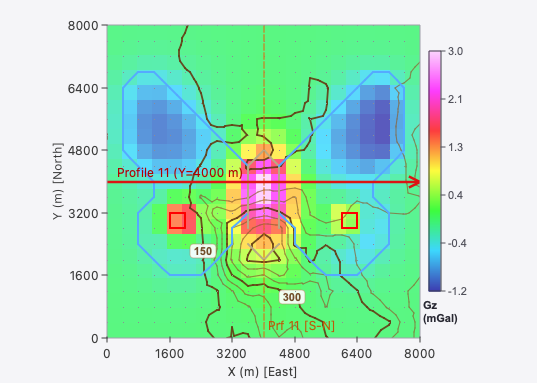
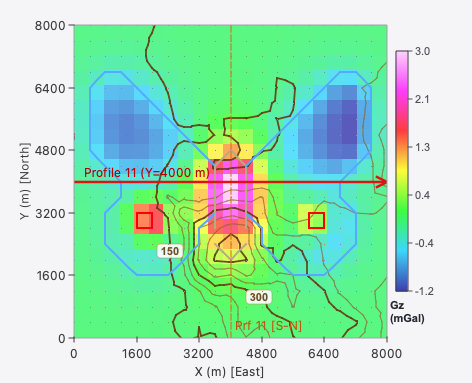
docs: update README and screenshots with modern 3D view and UI look

Changed region(s): [[0.0297, 0.0574, 0.9195, 1.0], [0.2669, 0.8903, 0.3559, 0.9478]]

diff --git a/tests/test_gui_document.cpp b/tests/test_gui_document.cpp
@@ -24,6 +24,15 @@ void saveTestScreenshot(const QPixmap &pix, const QString &filename) {
     std::error_code ec;
     std::filesystem::create_directories(dir, ec);
     pix.save(QString::fromStdString(dir + "/" + filename.toStdString()));
+
+    if (filename.startsWith("mod3d_")) {
+        const std::vector<std::string> candidateDirs = { "../../docs/images", "../docs/images" };
+        for (const auto &d : candidateDirs) {
+            if (std::filesystem::exists(d)) {
+                pix.save(QString::fromStdString(d + "/" + filename.toStdString()));
+            }
+        }
+    }
 }
 } // namespace
 

diff --git a/README.md b/README.md
@@ -7,7 +7,7 @@
 [![C++20](https://img.shields.io/badge/C%2B%2B-20-00599C?logo=c%2B%2B)](https://en.cppreference.com/w/cpp/20)
 [![Qt 6](https://img.shields.io/badge/Qt-6.5+-41CD52?logo=qt)](https://www.qt.io/)
 [![CMake](https://img.shields.io/badge/CMake-3.20+-064F8C?logo=cmake)](https://cmake.org/)
-[![Tests](https://img.shields.io/badge/Tests-146%20Passing-brightgreen.svg)]()
+[![Tests](https://img.shields.io/badge/Tests-152%20Passing-brightgreen.svg)]()
 [![Platform](https://img.shields.io/badge/Platform-macOS%20%7C%20Linux%20%7C%20Windows-lightgrey.svg)]()
 
 **High-Performance Interactive 2.5D & 3D Forward Modeling and Inversion of Potential Fields**
@@ -26,7 +26,7 @@ Powered by Dr. Vladimír Pohánka's exact analytical polyhedral integration engi
 
 <p align="center">
   <img src="docs/images/mod3d_main_workspace.png" alt="Mod3D Main Workspace" width="100%">
-  <em>Mod3D Multi-View Workspace: East-West and South-North geological cross-sections, 2D potential field map with topography contours, 3D turntable view, and Settings Inspector.</em>
+  <em>Mod3D Multi-View Workspace: Synchronized East-West and South-North cross-sections with live anomaly curves, 2D potential field heatmap with CONREC topography contours and body footprints, hardware-accelerated 3D turntable view with elevation-colored relief surface and active profile slice, and modern 4-tab Settings Inspector.</em>
 </p>
 
 ---
@@ -43,12 +43,13 @@ Powered by Dr. Vladimír Pohánka's exact analytical polyhedral integration engi
 - 🗺 **Comprehensive Multi-View Architecture**:
   - **Geological Profile View**: Synchronized East-West and South-North cross-sections, multi-body polygon editing, vertex dragging, body splitting, and real-time field profile fitting.
   - **Map View**: 2D potential field color raster heatmaps, station points, profile traverses, body footprints, and automatic CONREC surface relief/topography contours.
-  - **3D Perspective Turntable View**: Interactive 3D visualization of faceted polyhedral subsurface bodies.
-  - **Geological Body Editor & Settings Inspector**: SI-unit physical properties ($\text{kg/m}^3$ and $\text{SI}$ susceptibility), color picker, active toggles, and linear gradients.
+  - **3D Perspective Turntable View**: OpenGL 4.1 hardware-accelerated 3D rendering with LookAt camera, smooth turntable orbit & pan, faceted polyhedral subsurface bodies, active profile cut plane slice highlighting, 3D body raycast hit testing/selection, topographic relief surface & wireframe rendering with elevation colormapping, orientation compass sphere & coordinate tripod, and transparency controls.
+  - **Unified Settings Inspector**: 4-tab docked controls (**Display**, **Profiles**, **Bodies**, **Physics/Inversion**) with strict SI-unit physical properties ($\text{kg/m}^3$ and $\text{SI}$ susceptibility), color swatches, 3D transparency toggles, 3D linear density gradients ($\nabla\rho$), remanent magnetization, and automated inversion controls.
 - 🎯 **Automated Inversion**:
   - Built-in 1D least-squares automated density contrast inversion to match calculated anomalies to observed field surveys.
 - 🌐 **Modern C++20 & Qt 6 Design**:
   - Decoupled `mod3d_core` static library (zero GUI dependencies) and hardware-accelerated Qt 6 GUI.
+  - Dynamic responsive auto-resizing MDI layout that scales client subwindows smoothly.
   - Complete cross-platform compatibility across macOS (Apple Silicon & Intel), Linux, and Windows.
 
 ---
@@ -58,12 +59,12 @@ Powered by Dr. Vladimír Pohánka's exact analytical polyhedral integration engi
 | Interactive Geological Cross-Section | Topography & Field Map View |
 | :---: | :---: |
 | <img src="docs/images/mod3d_profile_cross_section.png" alt="Profile Cross-Section" width="460"> | <img src="docs/images/mod3d_map_view.png" alt="Map View with Contours" width="460"> |
-| *Real-time gravity anomaly fitting (blue calculated vs. red measured crosses with RMS misfit) above geological polyhedra and topography.* | *Potential field color heatmap with station grid points, profile traverses, geological body footprints, and topography relief contours.* |
+| *Real-time gravity anomaly fitting (blue calculated vs. red measured crosses with live RMS misfit) above geological polyhedra, profile topography, and cross-section cut indicator.* | *Potential field color heatmap with station grid points, profile traverses with directional indicators, geological body footprints, and automatic CONREC topography relief contours.* |
 
 | 3D Perspective Turntable View | Settings Inspector Body Editor |
 | :---: | :---: |
 | <img src="docs/images/mod3d_3d_turntable.png" alt="3D Turntable View" width="460"> | <img src="docs/images/mod3d_body_editor.png" alt="Settings Inspector Body Editor" width="460"> |
-| *Interactive 3D faceted polyhedral bodies with active profile cut plane, bounding box, and orientation tripod.* | *Settings Inspector: Strict SI physical units ($\text{kg/m}^3$ and $\text{SI}$), 3D linear density gradients ($\nabla\rho$), remanent magnetization, and automated inversion controls.* |
+| *Interactive 3D view: OpenGL 4.1 core shaders, colormapped topographic relief surface, polyhedral subsurface bodies, active profile cut plane slice, 3D orientation sphere, and coordinate tripod.* | *Settings Inspector: 4-tab docked controls (Display, Profiles, Bodies, Physics), strict SI physical units ($\text{kg/m}^3$ and $\text{SI}$), 3D linear density gradients ($\nabla\rho$), and real-time inversion.* |
 
 ---
 
@@ -109,7 +110,7 @@ Mod3D/
 ├── gui/                   # Modern Qt 6 desktop application (mod3d_gui)
 │   ├── include/mod3d_gui/ # Views: ProfileView, MapView, GL3DView, SettingsPane
 │   └── src/               # Rendering, interaction, and undo/redo controllers
-├── tests/                 # Comprehensive Google Test suite (126 tests)
+├── tests/                 # Comprehensive Google Test suite (152 tests)
 └── Examples/              # Authentic sample models (.m3d) & survey grids
 ```
 
@@ -178,15 +179,19 @@ ctest --test-dir build -C Release --output-on-failure
 
 ## Keyboard Shortcuts & Quick Reference
 
-| Shortcut | Action | Description |
+| Shortcut / Gesture | Action | Description |
 | :--- | :--- | :--- |
 | `F5` | **Compute All** | Recalculate forward potential field across all stations |
 | `H` / `E-W` | **East-West Profile** | Switch active profile view to horizontal E-W orientation |
 | `V` / `S-N` | **South-North Profile** | Switch active profile view to vertical S-N orientation |
 | `P` / `N` | **Previous / Next Profile** | Step through parallel survey profiles |
 | `Tile V` / `Tile H` | **Tile Views** | Arrange Profile, Map, and 3D views automatically |
-| `Ctrl + Wheel` | **Zoom** | Smooth proportional zoom on profile or map view |
-| `Left Drag` | **Move Vertex** | Interactively move geological boundary vertices |
+| `Ctrl + Wheel` | **Zoom 2D** | Smooth proportional zoom on profile or map view |
+| `Left Drag` (Profile) | **Move Vertex** | Interactively move geological boundary vertices |
+| `Left Drag` (3D) | **Orbit Camera** | Turntable 3D camera rotation (azimuth & pitch) |
+| `Shift + Left Drag` / `Middle Drag` (3D) | **Pan Camera** | Smooth 3D scene translation |
+| `Wheel` / `Right Drag` (3D) | **Zoom 3D** | Smooth perspective / orthographic zoom |
+| `Left Click` (3D) | **Select Body** | Raycast 3D body selection synchronized across all views |
 
 ---
 
